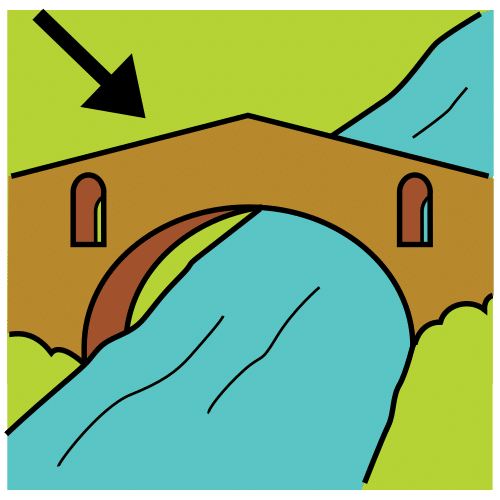
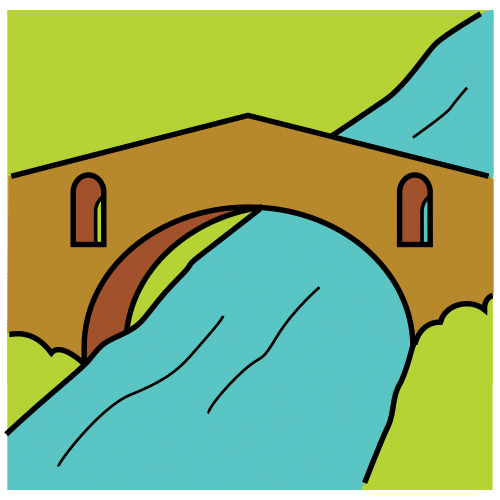
Période 1 : le passeport, le pont, le drapeau et la cigogne de l'imagier
- le passeport : le pictogramme Mulberry « passport » portait le mot
  anglais ; il devient « personal_passport », un carnet rouge sans texte ;
- le pont : le pictogramme ARASAAC 6194 garde son pont de pierre sur la
  rivière, sans la flèche de désignation, effacée mécaniquement (aucun
  trait redessiné ; la retouche est notée dans credits.json) ;
- le drapeau : la carte montrait le drapeau européen ; elle montre
  désormais un drapeau neutre, uni, sur sa hampe (ARASAAC 5918) ;
- la cigogne blanche de l'imagier était posée sur un lampadaire : trois
  planches de candidats (Europe, puis tout le vivier, puis le printemps
  et l'été, 80 vignettes) ; retenue à l'œil, la photographie 72429124 —
  une seule cigogne, entière, de profil, dans l'herbe.

Cahiers régénérés (imagier, cartes-corpus, crédits) ; verifier-imagier 0,
verifier-cartes-corpus 0, chercher-pictos verifier OK.

Claude-Session: https://claude.ai/code/session_01Uxi6vTyZY4CiKFDutfBqKC

Changed region(s): [[0.06, 0.0, 0.3, 0.24]]

diff --git a/site/cartes-corpus/periode-1.html b/site/cartes-corpus/periode-1.html
@@ -86,7 +86,7 @@
   <div class="cartes">
     <div class="carte"><div class="visuel dessin"><img src="../fiches/img/carte.png" alt="la carte"></div><div class="mot">la carte</div><div class="repere">période 1 · l’Europe · le milieu</div></div>
     <div class="carte"><div class="visuel dessin"><img src="../fiches/img/globe.svg" alt="le globe"></div><div class="mot">le globe</div><div class="repere">période 1 · l’Europe · le milieu</div></div>
-    <div class="carte"><div class="visuel dessin"><img src="../fiches/img/drapeau.svg" alt="le drapeau"></div><div class="mot">le drapeau</div><div class="repere">période 1 · l’Europe · le milieu</div></div>
+    <div class="carte"><div class="visuel dessin"><img src="../fiches/img/drapeau.png" alt="le drapeau"></div><div class="mot">le drapeau</div><div class="repere">période 1 · l’Europe · le milieu</div></div>
     <div class="carte"><div class="visuel dessin"><img src="../fiches/img/chateau.svg" alt="le château"></div><div class="mot">le château</div><div class="repere">période 1 · l’Europe · le milieu</div></div>
     <div class="carte"><div class="visuel dessin"><img src="../fiches/img/moulin.png" alt="le moulin"></div><div class="mot">le moulin</div><div class="repere">période 1 · l’Europe · le milieu</div></div>
     <div class="carte"><div class="visuel dessin"><img src="../fiches/img/pont.png" alt="le pont"></div><div class="mot">le pont</div><div class="repere">période 1 · l’Europe · le milieu</div></div>
@@ -153,7 +153,7 @@
   <div class="cartes">
     <div class="carte"><div class="visuel dessin"><img src="../fiches/img/carte.png" alt=""></div><div class="mot vide"></div><div class="repere">période 1 · l’Europe · le milieu</div></div>
     <div class="carte"><div class="visuel dessin"><img src="../fiches/img/globe.svg" alt=""></div><div class="mot vide"></div><div class="repere">période 1 · l’Europe · le milieu</div></div>
-    <div class="carte"><div class="visuel dessin"><img src="../fiches/img/drapeau.svg" alt=""></div><div class="mot vide"></div><div class="repere">période 1 · l’Europe · le milieu</div></div>
+    <div class="carte"><div class="visuel dessin"><img src="../fiches/img/drapeau.png" alt=""></div><div class="mot vide"></div><div class="repere">période 1 · l’Europe · le milieu</div></div>
     <div class="carte"><div class="visuel dessin"><img src="../fiches/img/chateau.svg" alt=""></div><div class="mot vide"></div><div class="repere">période 1 · l’Europe · le milieu</div></div>
     <div class="carte"><div class="visuel dessin"><img src="../fiches/img/moulin.png" alt=""></div><div class="mot vide"></div><div class="repere">période 1 · l’Europe · le milieu</div></div>
     <div class="carte"><div class="visuel dessin"><img src="../fiches/img/pont.png" alt=""></div><div class="mot vide"></div><div class="repere">période 1 · l’Europe · le milieu</div></div>
@@ -269,12 +269,12 @@
     <li><strong>le bateau</strong> — Mulberry Symbols — Paxtoncrafts Charitable Trust, licence CC BY-SA 4.0.</li>
     <li><strong>la carte</strong> — ARASAAC — Sergio Palao — propriété du Gouvernement d’Aragon (Espagne), licence CC BY-NC-SA.</li>
     <li><strong>le globe</strong> — Mulberry Symbols — Paxtoncrafts Charitable Trust, licence CC BY-SA 4.0.</li>
-    <li><strong>le drapeau</strong> — Mulberry Symbols — Paxtoncrafts Charitable Trust, licence CC BY-SA 4.0.</li>
+    <li><strong>le drapeau</strong> — ARASAAC — Sergio Palao — propriété du Gouvernement d’Aragon (Espagne), licence CC BY-NC-SA.</li>
     <li><strong>le château</strong> — Mulberry Symbols — Paxtoncrafts Charitable Trust, licence CC BY-SA 4.0.</li>
     <li><strong>le moulin</strong> — ARASAAC — Sergio Palao — propriété du Gouvernement d’Aragon (Espagne), licence CC BY-NC-SA.</li>
     <li><strong>le pont</strong> — ARASAAC — Sergio Palao — propriété du Gouvernement d’Aragon (Espagne), licence CC BY-NC-SA.</li>
     <li><strong>le hérisson</strong> — photographie Linda Lötjönen, licence CC BY (iNaturalist).</li>
-    <li><strong>la cigogne</strong> — photographie Вячеслав Юсупов, licence CC BY (iNaturalist).</li>
+    <li><strong>la cigogne</strong> — photographie Patrick Hacker, licence CC BY (iNaturalist).</li>
     <li><strong>le renard</strong> — photographie Genevieve Early, licence CC BY (iNaturalist).</li>
     <li><strong>l’ours</strong> — photographie no rights reserved, licence CC0 (iNaturalist).</li>
     <li><strong>le loup</strong> — photographie Bob, licence CC BY (iNaturalist).</li>

diff --git a/site/imagier/periode-1.html b/site/imagier/periode-1.html
@@ -197,7 +197,7 @@
   <p>Les photographies de cet imagier proviennent d’<strong>iNaturalist</strong> (inaturalist.org). Ce sont des observations de <strong>qualité recherche</strong> — l’espèce a été confirmée par plusieurs naturalistes — dont les photographies sont placées sous licence libre (CC0, CC BY ou CC BY-SA). Elles ont été recadrées au format des cartes ; aucune autre modification n’a été apportée. Merci à leurs auteurs et autrices.</p>
   <ul>
     <li><strong>le hérisson</strong> (<em>Erinaceus europaeus</em>) — Linda Lötjönen, licence CC BY.</li>
-    <li><strong>la cigogne blanche</strong> (<em>Ciconia ciconia</em>) — Вячеслав Юсупов, licence CC BY.</li>
+    <li><strong>la cigogne blanche</strong> (<em>Ciconia ciconia</em>) — Patrick Hacker, licence CC BY.</li>
     <li><strong>le renard roux</strong> (<em>Vulpes vulpes</em>) — Genevieve Early, licence CC BY.</li>
     <li><strong>l’ours brun</strong> (<em>Ursus arctos</em>) — no rights reserved, licence CC0.</li>
     <li><strong>le loup</strong> (<em>Canis lupus</em>) — Bob, licence CC BY.</li>

diff --git a/classe/imagier.py b/classe/imagier.py
@@ -68,7 +68,7 @@ OVERRIDES = {
     "chataignier": 156687202,
     "chene-pedoncule": 216854955,
     "chouette-hulotte": 192781832,
-    "cigogne-blanche": 601229857,
+    "cigogne-blanche": 72429124,     # seule, entière, de profil, dans l’herbe (l’ancienne était sur un lampadaire)
     "coquelicot": 77613327,
     "ecureuil-roux": 60496860,
     "edelweiss": 560454686,
